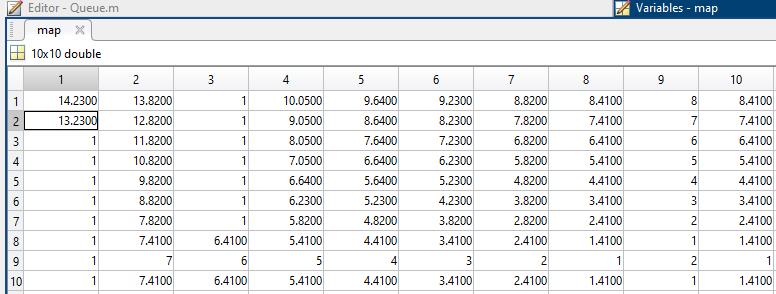
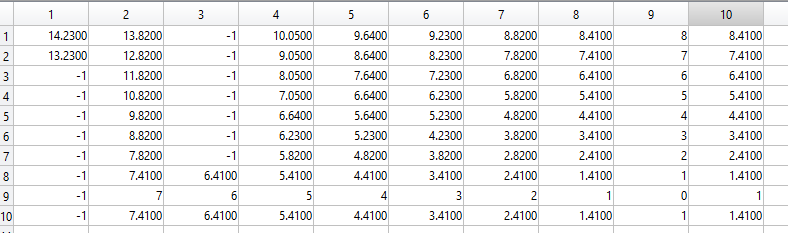
few updates

diff --git a/Exercise 12/QueueWithTankcontrol.m b/Exercise 12/QueueWithTankcontrol.m
@@ -2,13 +2,28 @@ clear;
 
 
 % Create a map map
-map = zeros(10,10);
-map(1:7,3)=ones(7,1)*-1;
-map(3:10)=ones(8,1)*-1;
-goal=[9,9];
-start=[2,2];
+%map = zeros(10,10);
+%map(1:7,3)=ones(7,1)*-1;
+%map(3:10)=ones(8,1)*-1;
+%goal=[9,9];
+%start=[2,2];
 
-resolution = 0.5;
+map = zeros(46);
+box = ones(50/5,30/5);
+
+[r,c]=size(box);
+[r2,c2]=size(map);
+
+map(r2/2-r/2:r2/2+r/2,c2/2-c/2:c2/2+c/2)=1;
+
+se = ones(9);
+map = imdilate(map,se)*(-1);
+
+start = [r2/2, 1];
+goal = [r2/2, 45];
+
+
+resolution = 0.05;
 
 
 
@@ -74,59 +89,49 @@ display("check")
 
 fileID = fopen('wavefront.sc','w');
 
-  %%Route
-  %we have a map, now we need a route - easiest to start from goal and move
-  %towards robot.
-  route = [goal(1) goal(2)];
+%%Route
+%we have a map, now we need a route - easiest to start from goal and move
+%towards robot.
+route = [goal(1) goal(2)];  
+
   
-  
-  %localRoute = [0 0];
-  
+localMin=999;
+j= 1;
+globalCoordinate= 0;
+while (route(end,1) ~= start(1) || route(end,2) ~= start(2))
   localMin=999;
-  j= 1;
-  globalCoordinate= 0;
-  while (route(end,1) ~= start(1) || route(end,2) ~= start(2))
-      localMin=999;
-      for i=1:size(neighbours,1) 
-        
-        nbi2 =  route(end,:) + neighbours(i,:);
-        nbi2;
-        if (map(nbi2(1),nbi2(2)) ~= -1)
-            localMin_placeHolder = map(nbi2(1),nbi2(2));
-            if (localMin_placeHolder < localMin)
-                localMin = localMin_placeHolder;
-                globalCoordinate = nbi2;
-                localCoordinate = neighbours(i,:);
-                
-            end
-            
+  for i=1:size(neighbours,1) 
+
+    nbi2 =  route(end,:) + neighbours(i,:);
+    nbi2;
+    if (map(nbi2(1),nbi2(2)) ~= -1)
+        localMin_placeHolder = map(nbi2(1),nbi2(2));
+        if (localMin_placeHolder < localMin)
+            localMin = localMin_placeHolder;
+            globalCoordinate = nbi2;
+            localCoordinate = neighbours(i,:);
+
         end
 
-      end
-  route(size(route,1)+1,:) = globalCoordinate;
-  
-  localCoordinate=localCoordinate*resolution;
-  
-  localRoute(size(route,1)+1,:) = localCoordinate;
- 
+    end
 
   end
+route(size(route,1)+1,:) = globalCoordinate;
+
+localCoordinate=localCoordinate*resolution;
+
+localRoute(size(route,1)+1,:) = localCoordinate;
+
+
+end
   
 
-%localRoute2 = zeros(size(route)); %Local route is kinda cursed, try again with global coordinates?
-
-
-
 route = flip(route,1);
-
-
-
-
 
 localRoute = flip(localRoute,1);
 
 %The theta's have to be calculated forwards, not backwards
-for i=3:size(localRoute,1)
+for i=1:size(localRoute,1)
     
   theta = ((atan2(-localRoute(i,1), -localRoute(i,2))))
   
@@ -143,54 +148,10 @@ for i=3:size(localRoute,1)
   
   fprintf(fileID,"turn  "+string(theta1)+"  "+'"rad"'+" @v0.5" + '\n');
   fprintf(fileID,"fwd  "+string(drivendist*resolution)+ '\n');
-     
-  %driveArray(i)="drive " + string(-localRoute(i,2)) + " " + ...
-  %string(-localRoute(i,1)) + " " + string(theta1) + " " + '"rad"' + " :($drivendist < "+string(drivendist)+")" + '\n';
-  %fprintf(fileID,driveArray(i));
 
-  %fprintf(fileID,driveArray(j));
   thetaOld = theta;
     
 end
-
-% localRoute2 = [0 0];
-% 
-% localRoute2 = route(2,:) - start;
-% 
-% 
-% for i=3:length(route)
-%     
-%   
-%   
-%     
-%   theta = atan2(localRoute2(1), localRoute2(2))
-%   
-%   
-%   
-%   theta1 = theta - thetaOld;
-%   
-%   if abs(theta1) == pi/4 || abs(theta1) == 3/4*pi
-%       drivendist = 1.41;
-%   else
-%       drivendist = 1;
-%   end
-%   
-%   
-%   fprintf(fileID,"turn  "+string(theta1)+"  "+'"rad"'+" @v0.5" + '\n');
-%   fprintf(fileID,"fwd  "+string(drivendist*resolution)+ '\n');
-%      
-%   %driveArray(i)="drive " + string(-localRoute(i,2)) + " " + ...
-%   %string(-localRoute(i,1)) + " " + string(theta1) + " " + '"rad"' + " :($drivendist < "+string(drivendist)+")" + '\n';
-%   %fprintf(fileID,driveArray(i));
-% 
-%   %fprintf(fileID,driveArray(j));
-%   localRoute2 = route(i) - route(i-1);
-%   
-%   
-%   thetaOld = theta;
-%     
-% end
-
 
 
 fclose(fileID);

diff --git a/Exercise 12/mapWithABox.m b/Exercise 12/mapWithABox.m
@@ -1,0 +1,14 @@
+
+map = zeros(46);
+box = ones(50/5,30/5);
+
+[r,c]=size(box);
+[r2,c2]=size(map);
+
+map(r2/2-r/2:r2/2+r/2,c2/2-c/2:c2/2+c/2)=1;
+
+se = ones(9);
+map_dil = imdilate(map,se);
+
+startPose = [r2/2 1];
+endPose = [r2/2 46];
